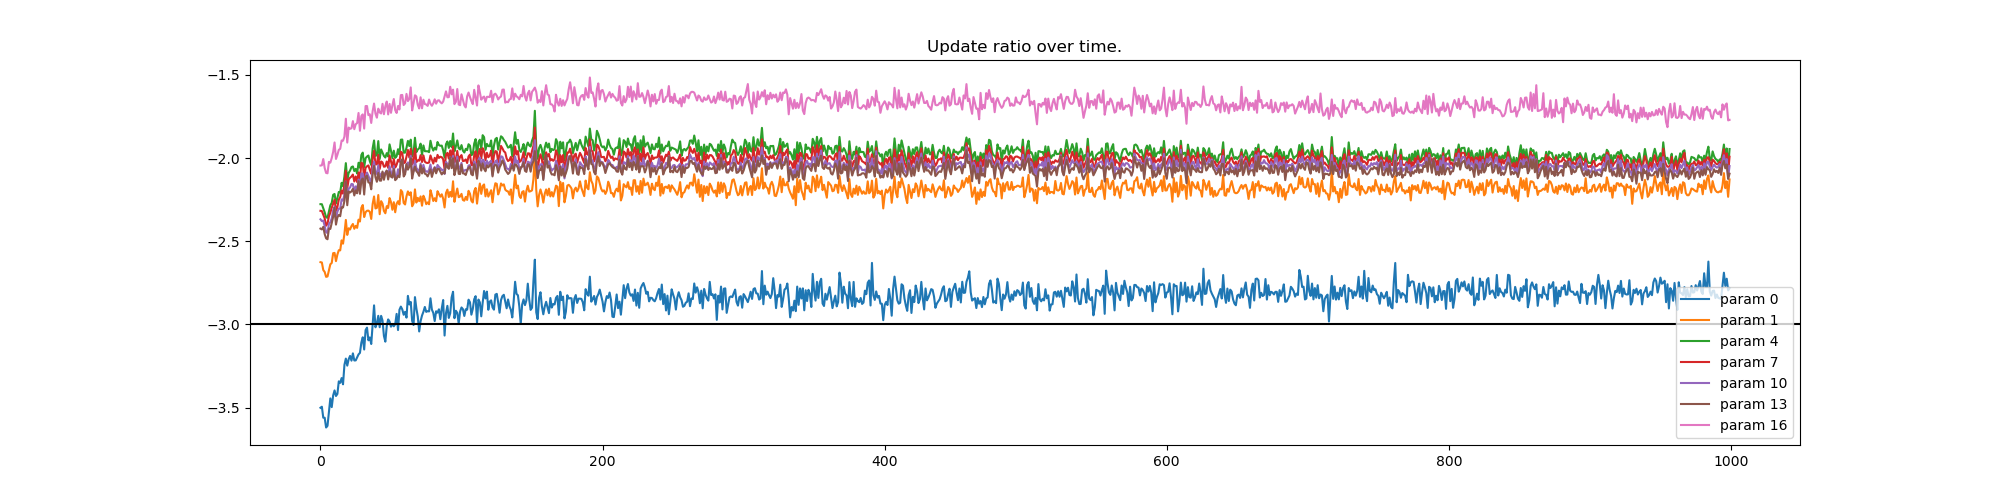
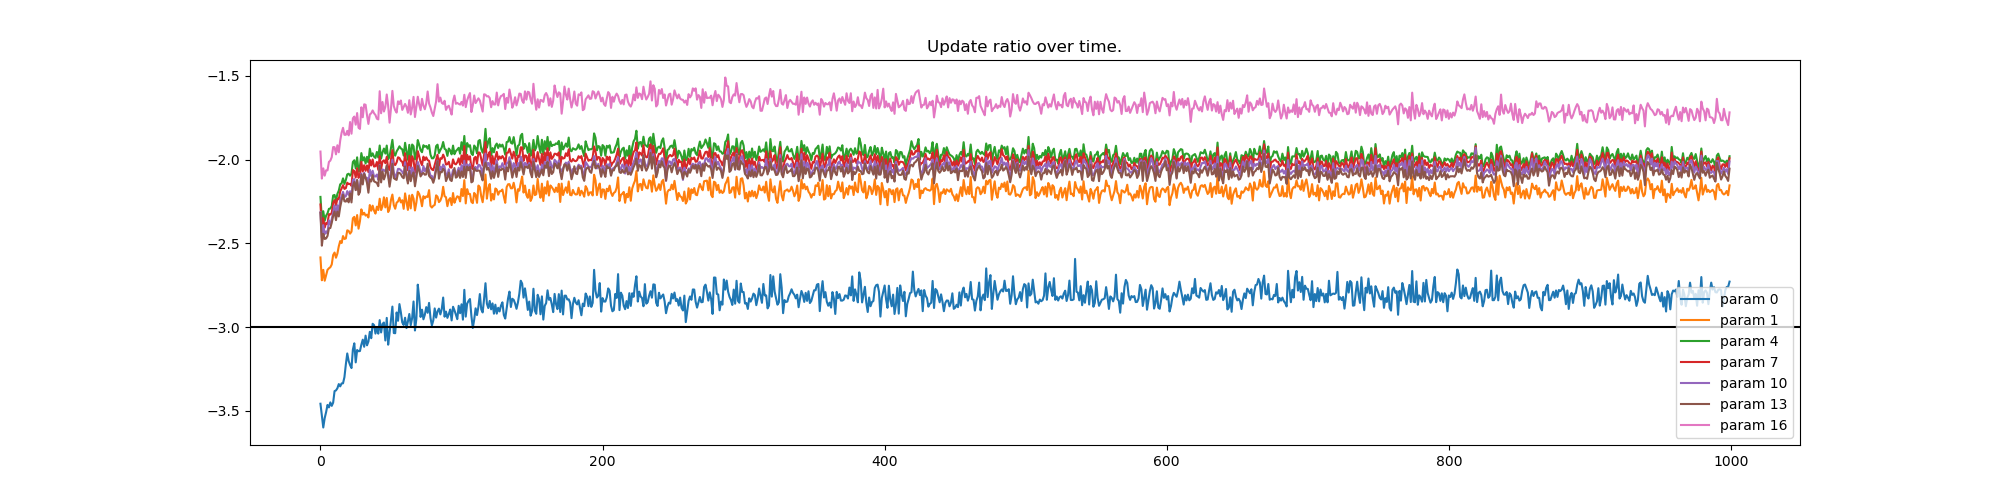
Implement PReLU
This commit implements the activation function, PReLU, from Delving Deep
into Rectifiers by He et al, 2015.

diff --git a/batch_norm.py b/batch_norm.py
@@ -148,6 +148,29 @@ class BatchNorm:
         self.training = True
 
 
+class PReLU:
+    """
+    Class to define a Parametric ReLu.
+    """
+
+    def __init__(self, coefficient=None) -> None:
+        if coefficient is not None:
+            self.coefficient = torch.tensor(coefficient, device=DEVICE)
+        else:
+            self.coefficient = torch.tensor(0.25, device=DEVICE)
+        self.output = None
+
+    def __call__(self, inputs: torch.Tensor) -> torch.Tensor:
+        self.output = torch.where(inputs > 0, inputs, inputs * self.coefficient)
+        return self.output
+
+    def parameters(self) -> List:
+        """
+        Function to return the parameters of the layer
+        """
+        return [self.coefficient]
+
+
 class Tanh:
     """
     Class to define tanh layer
@@ -327,19 +350,24 @@ model = [
     Embedding(len(unique_characters), EMBEDDING_LENGTH),
     Linear(EMBEDDING_LENGTH * BLOCK_SIZE, HIDDEN_LAYER, bias=False),
     BatchNorm(HIDDEN_LAYER),
-    Tanh(),
+    # Tanh(),
+    PReLU(),
     Linear(HIDDEN_LAYER, HIDDEN_LAYER, bias=False),
     BatchNorm(HIDDEN_LAYER),
-    Tanh(),
+    # Tanh(),
+    PReLU(),
     Linear(HIDDEN_LAYER, HIDDEN_LAYER, bias=False),
     BatchNorm(HIDDEN_LAYER),
-    Tanh(),
+    # Tanh(),
+    PReLU(),
     Linear(HIDDEN_LAYER, HIDDEN_LAYER, bias=False),
     BatchNorm(HIDDEN_LAYER),
-    Tanh(),
+    # Tanh(),
+    PReLU(),
     Linear(HIDDEN_LAYER, HIDDEN_LAYER, bias=False),
     BatchNorm(HIDDEN_LAYER),
-    Tanh(),
+    # Tanh(),
+    PReLU(),
     Linear(HIDDEN_LAYER, len(unique_characters), bias=False),
     BatchNorm(len(unique_characters)),
 ]
